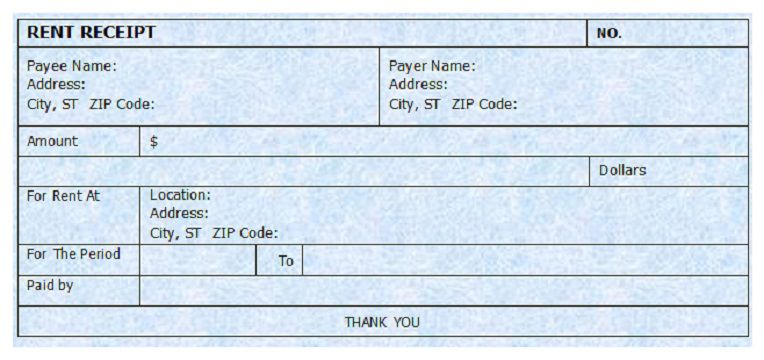
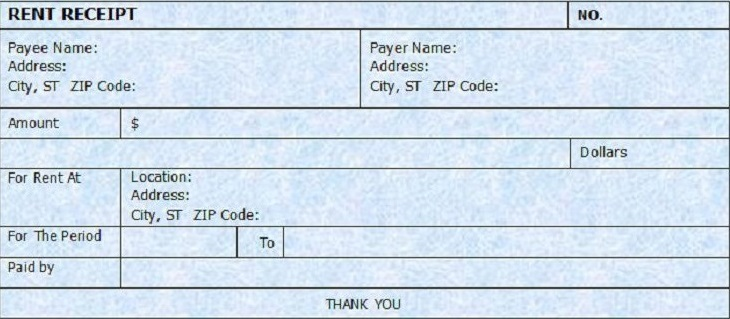
blue background to match receipt

Changed region(s): [[0.0, 0.0, 1.0, 1.0]]

diff --git a/Daily-UI-17-purchase Receipt/style.css b/Daily-UI-17-purchase Receipt/style.css
@@ -1,10 +1,25 @@
+@import url("https://fonts.googleapis.com/css2?family=Libre+Bodoni:ital,wght@0,400..700;1,400..700&display=swap");
+.libre-bodoni {
+  font-family: "Libre Bodoni", serif;
+  font-optical-sizing: auto;
+  font-weight: 700;
+  font-style: normal;
+  font-size: 32px;
+}
 body {
+  font-family: "Libre Bodoni", serif;
   display: flex;
   flex-direction: column;
   align-items: center;
   justify-content: center;
   height: 100vh;
   overflow: hidden;
+  background-color: #d6e7f9;
+  background-image: url("./blue-patterned-background.jpg");
 }
 .card {
+  background: url("./receipt-image.jpg") center;
+  width: 735px;
+  height: 319px;
+  border-radius: ;
 }
